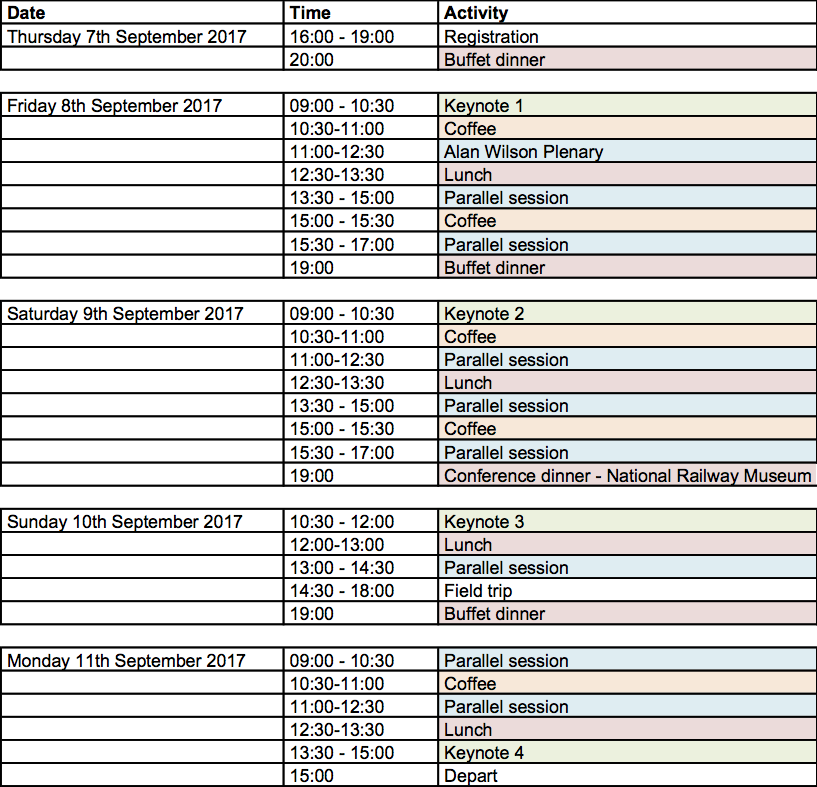
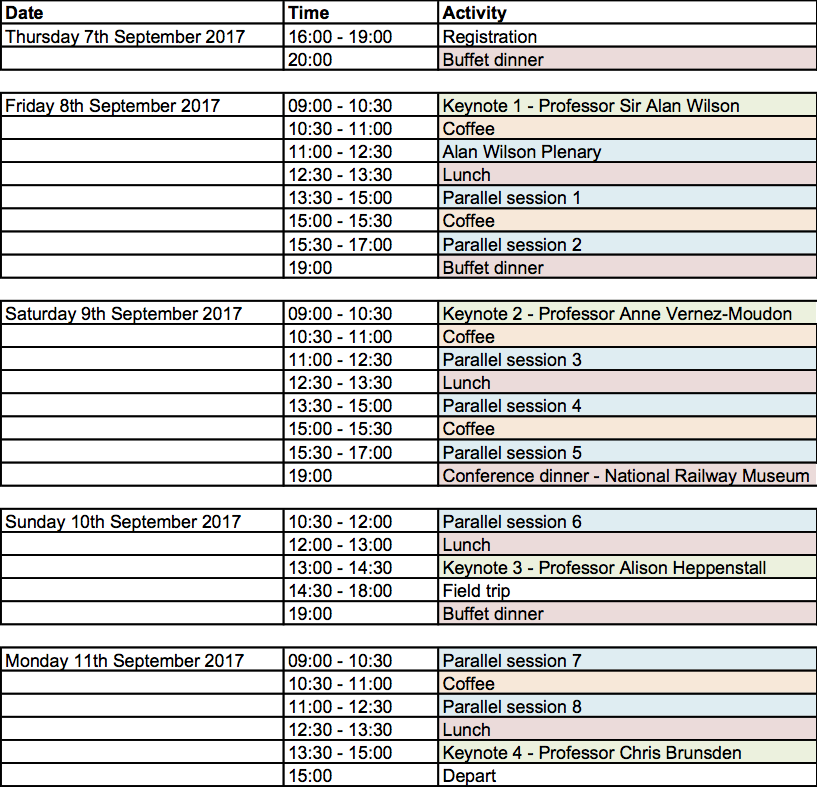
Added draft programme with times of papers

diff --git a/programme.md b/programme.md
@@ -6,13 +6,14 @@ tagline: European Colloquium on Theoretical and Quantitative Geography
 
 ## Draft Conference Programme
 
-<img style="float:right; width:65%; margin-left:20px;" src="{{ site.baseurl }}/assets/images/programme.png" alt="Conference Programme" />
+The draft programme overview is available below. Please note that the specific timings of each session will probably change slightly to accommodate the availability of presenters. The full programme with authors and abstracts will be publised in the coming weeks.
 
-The draft programme is available on the right. Please note that the full programme will be published after registration closes in July 2017. Please see the [key dates]({{site.baseurl}}/dates.html) for more information...
+For details about our keynote speakers, click [here](#keynotes). 
+
+<img style="margin-left:20px; width:100%" src="{{ site.baseurl }}/assets/images/programme2.png" alt="Conference Programme" />
 
 
-
-## Keynote Presentations
+## <a name="keynotes"></a>Keynote Presentations
 
 We are pleased to announce four keynote presenters who will talk at the ECTQG 2017
 

diff --git a/registration.md b/registration.md
@@ -14,9 +14,9 @@ To register for attendance, please visit:
 
 The conference registration fee includes refreshments and lunches throughout the conference; dinner at [Park Inn](https://www.parkinn.co.uk/hotel-york) on Thursday, Friday and Sunday; the conference dinner at the [National Railway Museum](http://www.nrm.org.uk/) on Saturday 9th; and a guided walking tour in York.
 
-Early-bird registration (until 1st July 2017): £330.00
+Early-bird registration (until 24th July 2017): £330.00
 
-Full registration after 1st July 2017: £400
+Full registration after 24th July 2017: £400
 
 Single Day Registration: £155.00
 
